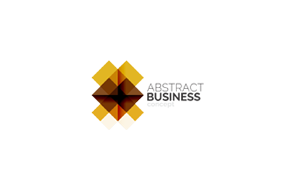
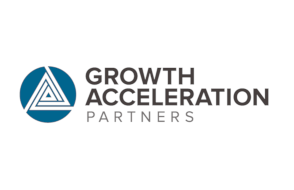
Add the other sponsors

Changed region(s): [[0.0612, 0.3158, 0.9184, 0.6842]]

diff --git a/index.html b/index.html
@@ -3800,11 +3800,11 @@
                     <h4><span>P.</span>¿Por qué se celebra el Global Azure Bootcamp?</h4>
                     <div class="tg-panelcontent">
                       <div class="tg-description">
-                        <p><span>R.</span>Para ayudar a las comunidades técnicas y desarrolladores a 
-                          empezar en el mundo del Cloud Computing, porque creemos que Microsoft Azure es 
-                          un gran producto y queremos decirle al mundo sobre él!. Esperamos beneficiar a 
-                          los principiantes como a los desarrolladores con experiencia, brindando el apoyo 
-                          que necesitan en el desarrollo y despliegue de sus proyecto en la nube; al mismo tiempo 
+                        <p><span>R.</span>Para ayudar a las comunidades técnicas y desarrolladores a
+                          empezar en el mundo del Cloud Computing, porque creemos que Microsoft Azure es
+                          un gran producto y queremos decirle al mundo sobre él!. Esperamos beneficiar a
+                          los principiantes como a los desarrolladores con experiencia, brindando el apoyo
+                          que necesitan en el desarrollo y despliegue de sus proyecto en la nube; al mismo tiempo
                           fortaleciendo la comunidad técnica de Azure.</p>
                       </div>
                     </div>
@@ -3813,8 +3813,8 @@
                     <h4><span>P.</span>¿Existe Algún Requisito?</h4>
                     <div class="tg-panelcontent">
                       <div class="tg-description">
-                        <p><span>R.</span>Sí, para ingresar debes estar registrado y presentarte a la confirmación del ingreso. 
-                          Además te invitamos a <a href="//azure.microsoft.com/en-us/pricing/free-trial/" target="_blank">activar</a> tu cuenta gratuita de Azure, para que nos acompañes en cada uno de los 
+                        <p><span>R.</span>Sí, para ingresar debes estar registrado y presentarte a la confirmación del ingreso.
+                          Además te invitamos a <a href="//azure.microsoft.com/en-us/pricing/free-trial/" target="_blank">activar</a> tu cuenta gratuita de Azure, para que nos acompañes en cada uno de los
                           laboratorios. Si deseas, puedes traer tu laptop con las herramientas y configuraciones que a ti, te gustan.
                         </p>
                       </div>
@@ -3824,8 +3824,8 @@
                     <h4><span>P.</span>¿Necesito llevar algo preparado?</h4>
                     <div class="tg-panelcontent">
                       <div class="tg-description">
-                        <p><span>R.</span>Aprovecharás mejor el evento si te traes tu propio portátil preparado con el 
-                          software que pronto anunciaremos (vuelve a visitar la página en breve para más información). 
+                        <p><span>R.</span>Aprovecharás mejor el evento si te traes tu propio portátil preparado con el
+                          software que pronto anunciaremos (vuelve a visitar la página en breve para más información).
                           Es mejor que lleves instalado dicho software para que no perder tiempo durante el evento.</p>
                       </div>
                     </div>
@@ -3834,10 +3834,10 @@
                     <h4><span>P.</span>¿El evento es para principiantes?</h4>
                     <div class="tg-panelcontent">
                       <div class="tg-description">
-                        <p><span>A.</span>Sí y no. Nos centraremos en una serie de sesiones y hands on labs 
-                          que apuntan a un nivel 200, pero también profundizaremos en escenarios reales, 
-                          zonas de preguntas y respuestas, etc. ¿Crees que ya lo sabes todo? 
-                          ¡Genial! Todavía necesitamos voluntarios, speakers y gente que nos ayude con los 
+                        <p><span>A.</span>Sí y no. Nos centraremos en una serie de sesiones y hands on labs
+                          que apuntan a un nivel 200, pero también profundizaremos en escenarios reales,
+                          zonas de preguntas y respuestas, etc. ¿Crees que ya lo sabes todo?
+                          ¡Genial! Todavía necesitamos voluntarios, speakers y gente que nos ayude con los
                           labs. Envíanos un correo electrónico a khriztianmoreno@gmail.com para formar parte de la organización.</p>
                       </div>
                     </div>
@@ -3882,28 +3882,49 @@
               <ul class="tg-brands">
                 <li class="tg-brand">
                   <figure>
-                    <a href="https://www.microsoft.com/es-co" target="_blanck">
+                    <a href="https://www.microsoft.com/es-co" target="_blank">
                       <img src="images/brands/img-01.png" alt="Microsoft" />
                     </a>
                   </figure>
                 </li>
                 <li class="tg-brand">
                   <figure>
-                    <a href="https://avanent.org" target="_blanck">
+                    <a href="https://avanent.org/?ref=globalAzure" target="_blank">
                       <img src="images/brands/img-02.png" alt="Fundación Avanet" />
                     </a>
                   </figure>
                 </li>
                 <li class="tg-brand">
                   <figure>
-                    <a href="https://www.rutanmedellin.org/es/?ref=netconfco" target="_blanck">
+                    <a href="https://www.rutanmedellin.org/es/?ref=globalAzure" target="_blank">
                       <img src="images/brands/img-03.png" alt="Ruta N" />
                     </a>
                   </figure>
                 </li>
                 <li class="tg-brand">
                   <figure>
-                    <a href="javascript:void(0);" target="_blanck">
+                    <a href="https://www.teaminternational.com/?ref=globalAzure" target="_blank">
+                      <img src="images/brands/img-05.png" alt="Team International">
+                    </a>
+                  </figure>
+                </li>
+                <li class="tg-brand">
+                  <figure>
+                    <a href="https://www.ceiba.com.co/?ref=globalAzure" target="_blank">
+                      <img src="images/brands/img-06.png" alt="Ceiba Software">
+                    </a>
+                  </figure>
+                </li>
+                <li class="tg-brand">
+                  <figure>
+                    <a href="https://www.growthaccelerationpartners.com/?ref=globalAzure" target="_blank">
+                      <img src="images/brands/img-07.png" alt="Growth Acceleration Partners">
+                    </a>
+                  </figure>
+                </li>
+                <li class="tg-brand">
+                  <figure>
+                    <a href="javascript:void(0);" target="_blank">
                       <img src="images/brands/img-04.png" alt="image description">
                     </a>
                   </figure>
@@ -4334,8 +4355,8 @@
                       <h2>Localización del evento</h2>
                     </div>
                     <div class="tg-description">
-                      <p>¡Y este no es un evento cualquiera! Es un evento global celebrándose en 180 localizaciones 
-                        en 53 países y 126 ciudades alrededor del globo. Si no puedes asistir al evento de Medellín y 
+                      <p>¡Y este no es un evento cualquiera! Es un evento global celebrándose en 180 localizaciones
+                        en 53 países y 126 ciudades alrededor del globo. Si no puedes asistir al evento de Medellín y
                         te queda alguna otra ciudad más cerca, consulta en <a href="//global.azurebootcamp.net/locations" target="_blank">
                           global.azurebootcamp.net/locations </a>
                         para más información sobre las otras sedes del evento.</p>
